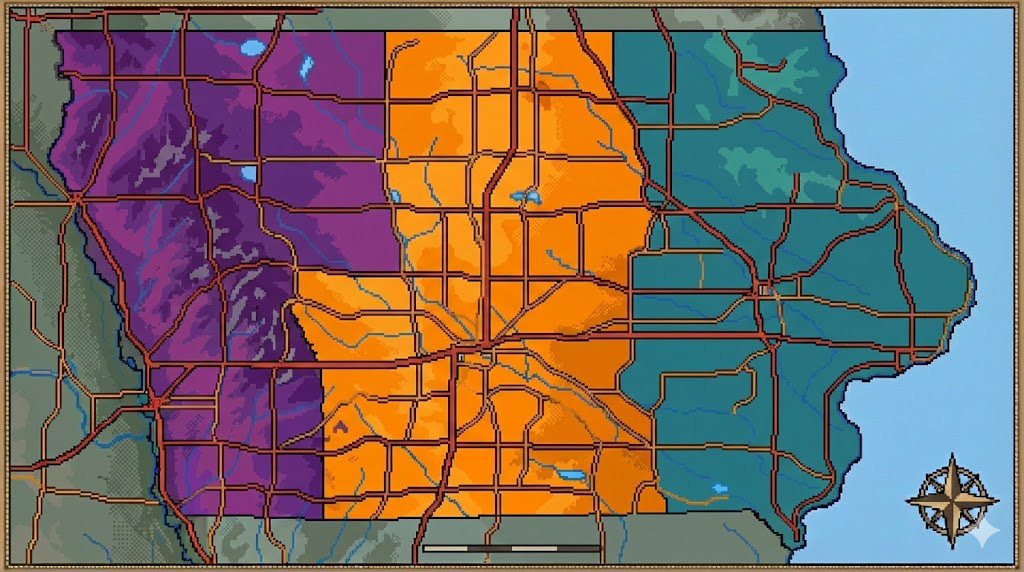
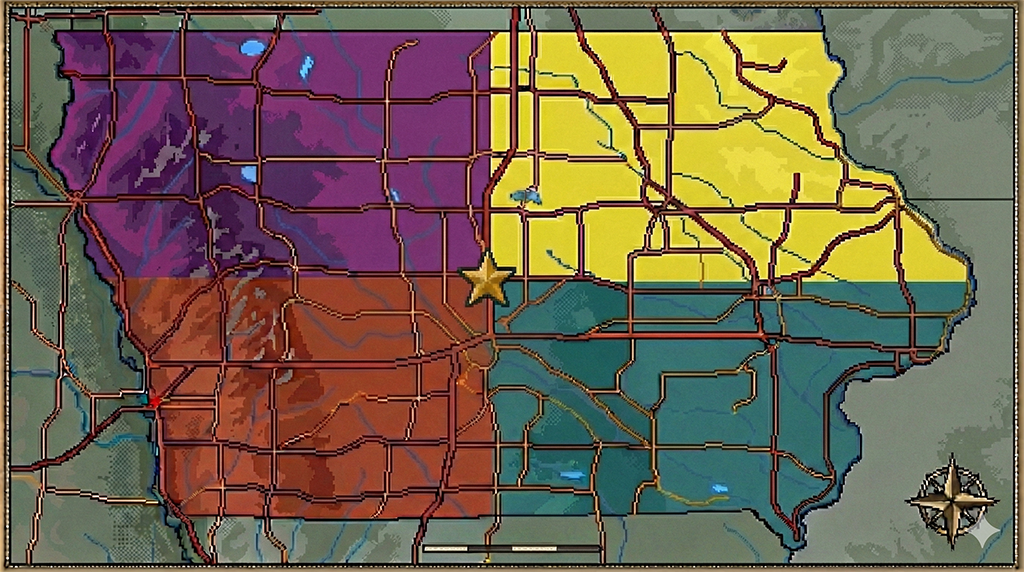
903

diff --git a/mapData.js b/mapData.js
@@ -2,26 +2,47 @@
   if (!window) return;
 
   const districts = [
-    { id: "westreach", name: "Westreach", order: 0 },
-    { id: "ashvale", name: "Ashvale", order: 1 },
-    { id: "rivergate", name: "Rivergate", order: 2 },
+    { id: "northwest", name: "Westreach", order: 0 },
+    { id: "northeast", name: "Ashvale", order: 1 },
+    { id: "southwest", name: "Lowmarch", order: 2 },
+    { id: "southeast", name: "Rivergate", order: 3 },
   ];
 
   const towns = [
-    // Westreach
-    { id: "pine-hollow", name: "Pine Hollow", districtId: "westreach", x: 0.16, y: 0.32 }, // move me later
-    { id: "stone-ridge", name: "Stone Ridge", districtId: "westreach", x: 0.24, y: 0.46 }, // move me later
-    { id: "northvale", name: "Northvale", districtId: "westreach", x: 0.2, y: 0.74 }, // move me later
+    // Westreach (northwest)
+    { id: "pine_hollow", name: "Pine Hollow", districtId: "northwest", x: 0.14, y: 0.18 }, // move me later
+    { id: "stone_ridge", name: "Stone Ridge", districtId: "northwest", x: 0.3, y: 0.26 }, // move me later
+    { id: "northvale", name: "Northvale", districtId: "northwest", x: 0.16, y: 0.36 }, // move me later
+    { id: "briarfield", name: "Briarfield", districtId: "northwest", x: 0.36, y: 0.4 }, // move me later
+    { id: "cold_run", name: "Cold Run", districtId: "northwest", x: 0.24, y: 0.42 }, // move me later
+    { id: "watch_hill", name: "Watch Hill", districtId: "northwest", x: 0.4, y: 0.18 }, // move me later
 
-    // Ashvale
-    { id: "red-creek", name: "Red Creek", districtId: "ashvale", x: 0.5, y: 0.34 }, // move me later
-    { id: "ash-crossing", name: "Ash Crossing", districtId: "ashvale", x: 0.58, y: 0.48 }, // move me later
-    { id: "millhaven", name: "Millhaven", districtId: "ashvale", x: 0.48, y: 0.76 }, // move me later
+    // Ashvale (northeast)
+    { id: "red_creek", name: "Red Creek", districtId: "northeast", x: 0.6, y: 0.18 }, // move me later
+    { id: "ash_crossing", name: "Ash Crossing", districtId: "northeast", x: 0.72, y: 0.26 }, // move me later
+    { id: "millhaven", name: "Millhaven", districtId: "northeast", x: 0.58, y: 0.36 }, // move me later
+    { id: "cinderbrook", name: "Cinderbrook", districtId: "northeast", x: 0.78, y: 0.16 }, // move me later
+    { id: "blackmere", name: "Blackmere", districtId: "northeast", x: 0.62, y: 0.46 }, // move me later
+    { id: "emberfall", name: "Emberfall", districtId: "northeast", x: 0.78, y: 0.38 }, // move me later
 
-    // Rivergate
-    { id: "havenridge", name: "Havenridge", districtId: "rivergate", x: 0.76, y: 0.32 }, // move me later
-    { id: "lowmoor", name: "Lowmoor", districtId: "rivergate", x: 0.84, y: 0.48 }, // move me later
-    { id: "duston", name: "Duston", districtId: "rivergate", x: 0.76, y: 0.8 }, // move me later
+    // Lowmarch (southwest)
+    { id: "lowmoor", name: "Lowmoor", districtId: "southwest", x: 0.24, y: 0.58 }, // move me later
+    { id: "brackton", name: "Brackton", districtId: "southwest", x: 0.36, y: 0.64 }, // move me later
+    { id: "marsh_end", name: "Marsh End", districtId: "southwest", x: 0.22, y: 0.76 }, // move me later
+    { id: "stillwater", name: "Stillwater", districtId: "southwest", x: 0.34, y: 0.82 }, // move me later
+    { id: "reeds_hollow", name: "Reeds Hollow", districtId: "southwest", x: 0.24, y: 0.86 }, // move me later
+    { id: "dunfen", name: "Dunfen", districtId: "southwest", x: 0.4, y: 0.76 }, // move me later
+
+    // Rivergate (southeast)
+    { id: "havenridge", name: "Havenridge", districtId: "southeast", x: 0.6, y: 0.58 }, // move me later
+    { id: "duston", name: "Duston", districtId: "southeast", x: 0.8, y: 0.68 }, // move me later
+    { id: "southbank", name: "Southbank", districtId: "southeast", x: 0.56, y: 0.74 }, // move me later
+    { id: "fordham", name: "Fordham", districtId: "southeast", x: 0.86, y: 0.6 }, // move me later
+    { id: "clearford", name: "Clearford", districtId: "southeast", x: 0.64, y: 0.84 }, // move me later
+    { id: "greywater", name: "Greywater", districtId: "southeast", x: 0.78, y: 0.9 }, // move me later
+
+    // Capital
+    { id: "highgate", name: "Highgate", type: "capital", x: 0.475, y: 0.49 }, // move me later
   ];
 
   function calculateStars(congregationCount) {

diff --git a/MapScreen.js b/MapScreen.js
@@ -204,8 +204,14 @@
     ctx.save();
     ctx.beginPath();
     ctx.arc(position.x, position.y, radius, 0, Math.PI * 2);
+    ctx.shadowColor = "rgba(0, 0, 0, 0.6)";
+    ctx.shadowBlur = 10;
     ctx.fillStyle = unlocked ? "#FFD978" : "rgba(255,255,255,0.2)";
     ctx.fill();
+    ctx.shadowBlur = 0;
+    ctx.lineWidth = 2;
+    ctx.strokeStyle = "rgba(0, 0, 0, 0.6)";
+    ctx.stroke();
     if (selected && unlocked) {
       ctx.lineWidth = 3;
       ctx.strokeStyle = "rgba(255,255,255,0.9)";
@@ -270,15 +276,7 @@
     ctx.fillText("Greyhaven", rect.x + rect.w / 2, rect.y + Math.max(12, rect.h * 0.04));
 
     const districts = mapData.getDistricts();
-    const thirdWidth = rect.w / Math.max(1, districts.length);
-    districts.forEach((district, index) => {
-      if (!isDistrictUnlocked(district.id)) return;
-      const x = rect.x + thirdWidth * index + thirdWidth / 2;
-      const y = rect.y + Math.max(54, rect.h * 0.12);
-      ctx.fillStyle = "rgba(234, 246, 255, 0.9)";
-      ctx.font = `600 ${districtSize}px ${UI_FONT_FAMILY}`;
-      ctx.fillText(district.name, x, y);
-    });
+    void districts;
     ctx.restore();
   }
 
